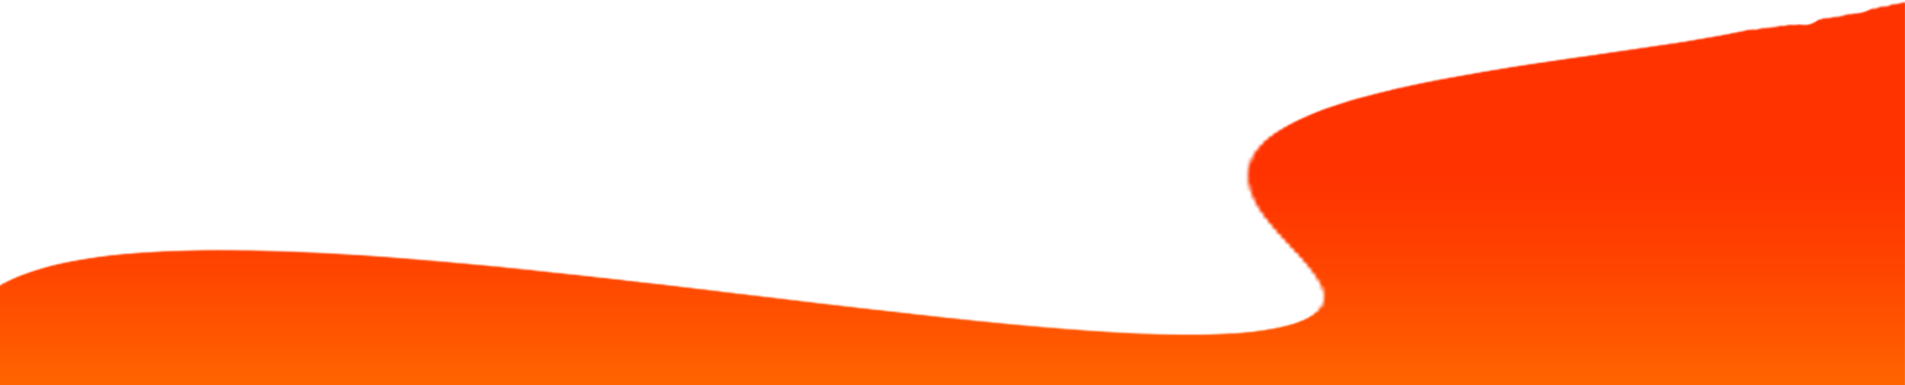
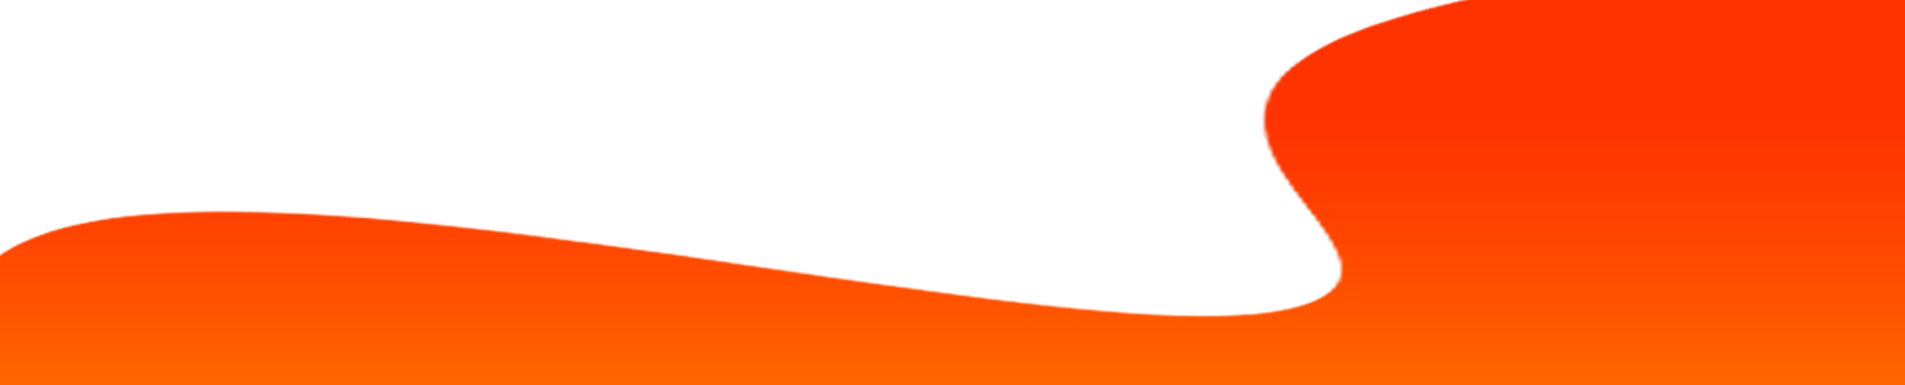
ny footer

Changed region(s): [[0.0, 0.0, 1.0, 0.8727]]

diff --git a/css/Produkter.css b/css/Produkter.css
@@ -137,7 +137,7 @@ footer{
     width: 100%;
     position: relative;
     left: 0;
-    margin-top: -40%;
+    margin-top: -30vw;
 }
 
 .footerindhold {
